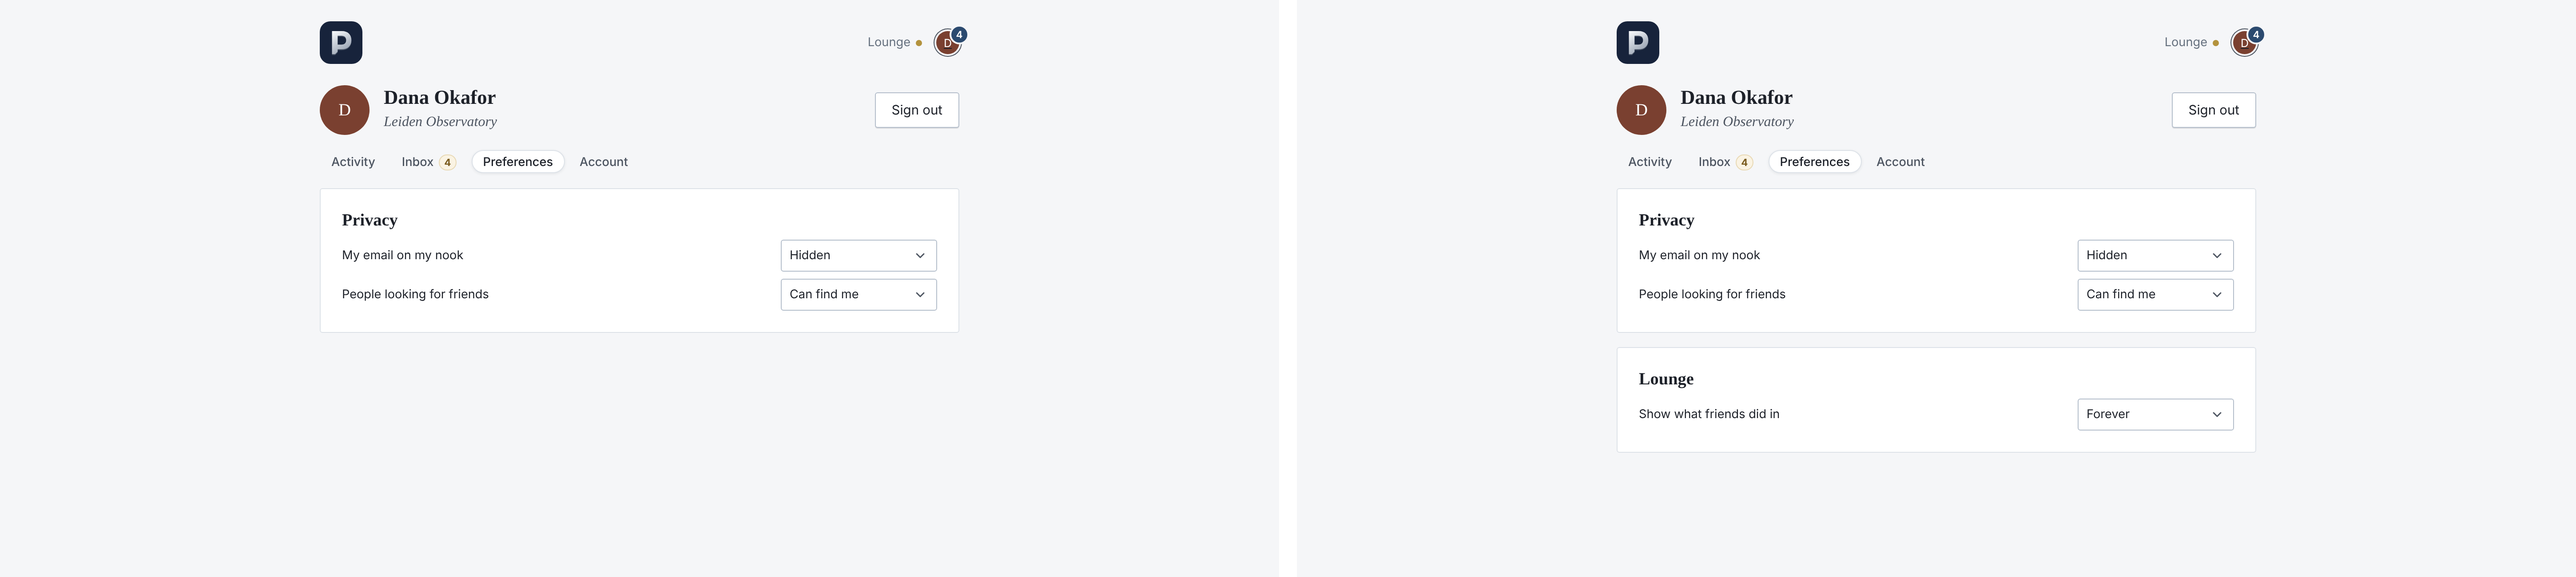
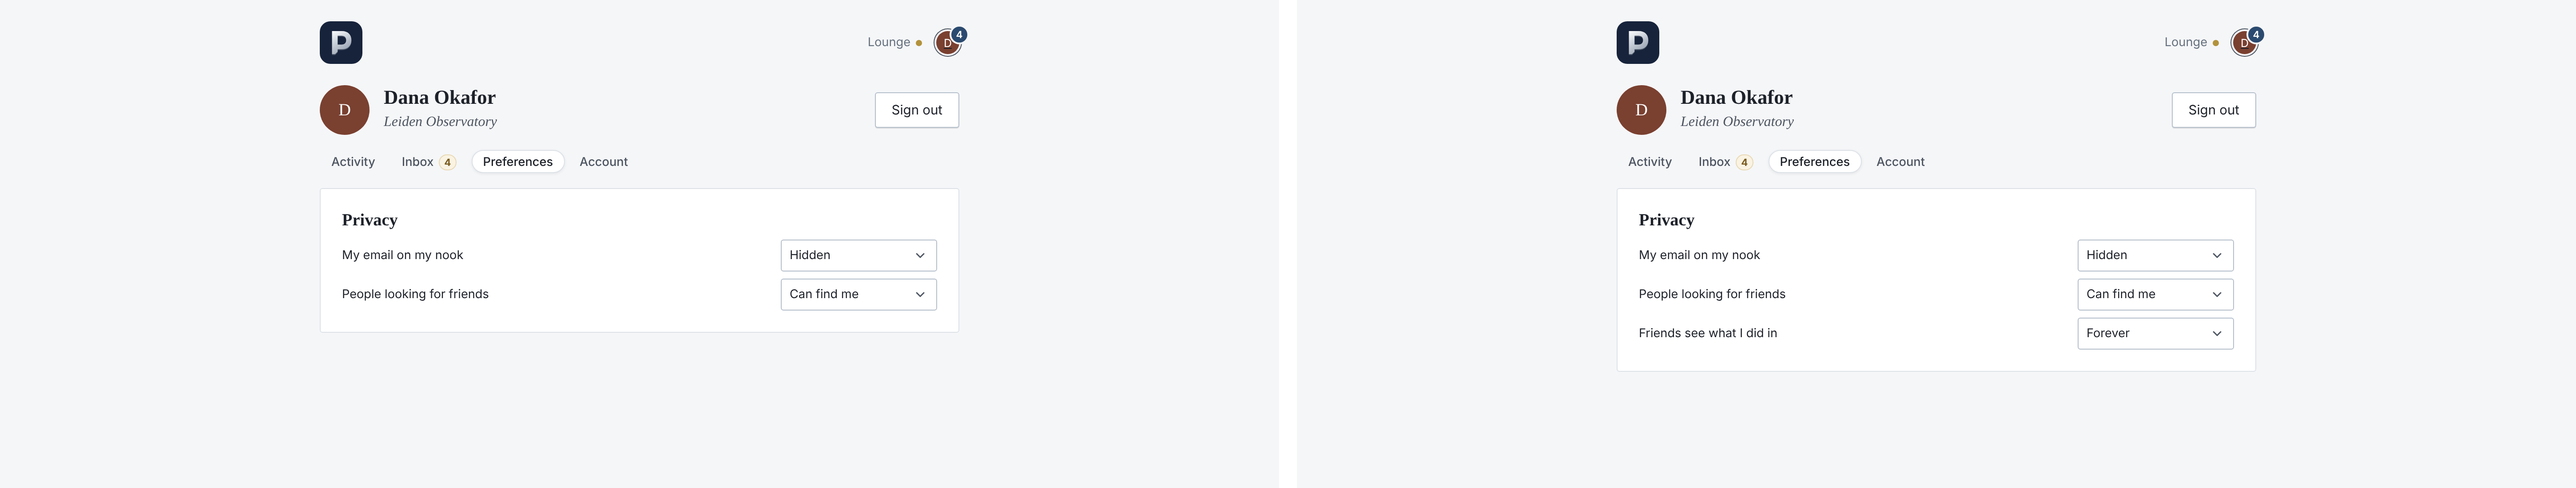
Preferences: the range is how far back friends see what I did
It is each person's choice about their own doings, not about their own
Lounge, and stands under Privacy.

Claude-Session: https://claude.ai/code/session_01PQZzMU9GKrAFQp5Cu1jE2g

diff --git a/cloudflare/src/routes/room.ts b/cloudflare/src/routes/room.ts
@@ -9,8 +9,8 @@
 // same shelf and the same field that shows it anywhere else.
 //
 // The room is made from the reader's friends and nobody else. What a
-// friend reads, and for how long, is never in it. It holds everything, however old, unless the member
-// chose a shorter time; the page shows it a part at a time.
+// friend reads, and for how long, is never in it. It holds everything, however old, except what a
+// friend chose to stop showing after a time (their Preferences); the page shows it a part at a time.
 
 import { currentUser, type User } from "../auth";
 import { all, statement, type Row } from "../db";
@@ -52,9 +52,8 @@ async function latest(env: Env, me: User) {
   const mine = userLiteral(me.uuid);
   const friends = friendsOf(mine);
   const people = friends;
-  // The member says how far back the room goes (Preferences). Left alone,
-  // nothing is too old for it: every time is after the empty one.
-  const since = me.lounge_days ? new Date(Date.now() - me.lounge_days * DAY).toISOString() : "";
+  // Nothing is too old for the room: every time is after the empty one.
+  const since = "";
   const seen = me.room_seen_at as string | null ?? "9999";
   const digOn = "d.uuid AS dig_uuid, d.user_uuid AS owner_uuid, d.paper_sha256, d.created_at AS dug_at, d.text, an.page AS on_page, an.kind AS on_kind";
 
@@ -95,7 +94,13 @@ async function latest(env: Env, me: User) {
   ])).map((r) => r.results);
 
   const lines = new Map<string, Line[]>();
-  const say = (digest: unknown, line: Line) => lines.set(String(digest), [...(lines.get(String(digest)) ?? []), line]);
+  // Each person says how far back their friends see what they did
+  // (Preferences); left alone, all of it. Past that, a thing they did is
+  // not in anyone's room.
+  const spans = new Map((await all<Row>(env.DB, `SELECT uuid, lounge_days FROM users WHERE lounge_days IS NOT NULL AND uuid IN ${people}`))
+    .map((u) => [String(u.uuid), new Date(Date.now() - Number(u.lounge_days) * DAY).toISOString()]));
+  const shows = (user: unknown, at: string) => at > (spans.get(String((user as { uuid: unknown }).uuid)) ?? "");
+  const say = (digest: unknown, line: Line) => { if (shows(line.user, line.at)) lines.set(String(digest), [...(lines.get(String(digest)) ?? []), line]); };
   const who = (row: Row) => userPublic(row);
   // What was said within a day of the adding is part of it, and the line
   // takes the later time. What was said after that is its own line, so
@@ -164,6 +169,7 @@ async function latest(env: Env, me: User) {
     rows.push({ kind: "paper", key: digest, at: said[0].at, is_new: said[0].at > seen, paper: paperOf.get(digest), in_my_nook: inNook.has(digest), lines: said });
   }
   for (const b of boards) {
+    if (!shows(who(b), b.made_at as string)) continue;
     rows.push({
       kind: "board", key: `board:${b.board_uuid}`, at: b.made_at as string, is_new: (b.made_at as string) > seen,
       board: { uuid: b.board_uuid, name: b.name, description: b.description, item_count: b.item_count, updated_at: b.edited_at }, user: who(b),
@@ -172,6 +178,7 @@ async function latest(env: Env, me: User) {
   // A project is one row however many of the people in view joined it.
   const projects = new Map<string, Out>();
   for (const j of joined) {
+    if (!shows(who(j), j.joined_at as string)) continue;
     const row = projects.get(String(j.project_uuid)) ?? {
       kind: "project", key: `project:${j.project_uuid}`, at: j.joined_at as string, is_new: false,
       project: { uuid: j.project_uuid, name: j.name, description: j.description, member_count: j.member_count, is_member: Boolean(j.is_member), asked: Boolean(j.asked) },

diff --git a/cloudflare/test/friends.test.ts b/cloudflare/test/friends.test.ts
@@ -292,21 +292,24 @@ describe("the Lounge", () => {
     expect(got.rows.filter((r: any) => r.kind === "paper").map((r: any) => r.paper.title).sort()).toEqual(["Paper 1", "Paper 2", "Paper 3", "Paper 4", "Paper 5", "Paper 6", "Paper 7"]);
   });
 
-  it("goes back as far as the member chose, and forever to begin with", async () => {
+  it("shows a friend's doings as far back as that friend chose, and forever to begin with", async () => {
     const ada = await register("ada@example.test", "Ada"), grace = await register("grace@example.test", "Grace");
     await befriend(ada, grace);
     await paperWithCopy(grace, digest("a"), "Two months old", { shelfUuid: await defaultShelf(grace) });
     await exec("UPDATE copies SET created_at = ? WHERE paper_sha256 = ?", new Date(Date.now() - 60 * 24 * 3_600_000).toISOString(), digest("a"));
     await paperWithCopy(grace, digest("b"), "Today", { shelfUuid: await defaultShelf(grace) });
     const titles = async () => (await room(ada)).rows.map((r: any) => r.paper.title);
-    expect((await ok("GET", "/api/auth/me", { headers: ada.headers })).lounge_days).toBe(null);
+    expect((await ok("GET", "/api/auth/me", { headers: grace.headers })).lounge_days).toBe(null);
     expect(await titles()).toEqual(["Today", "Two months old"]);
-    expect((await ok("PUT", "/api/auth/profile", { headers: ada.headers, json: { lounge_days: 30 } })).lounge_days).toBe(30);
+    // It is Grace's choice about her own doings; Ada's own choice changes nothing she sees.
+    await ok("PUT", "/api/auth/profile", { headers: ada.headers, json: { lounge_days: 14 } });
+    expect(await titles()).toEqual(["Today", "Two months old"]);
+    expect((await ok("PUT", "/api/auth/profile", { headers: grace.headers, json: { lounge_days: 30 } })).lounge_days).toBe(30);
     expect(await titles()).toEqual(["Today"]);
-    expect((await ok("PUT", "/api/auth/profile", { headers: ada.headers, json: { lounge_days: 90 } })).lounge_days).toBe(90);
+    expect((await ok("PUT", "/api/auth/profile", { headers: grace.headers, json: { lounge_days: 90 } })).lounge_days).toBe(90);
     expect(await titles()).toEqual(["Today", "Two months old"]);
-    expect((await call("PUT", "/api/auth/profile", { headers: ada.headers, json: { lounge_days: 7 } })).status).toBe(422);
-    expect((await ok("PUT", "/api/auth/profile", { headers: ada.headers, json: { lounge_days: null } })).lounge_days).toBe(null);
+    expect((await call("PUT", "/api/auth/profile", { headers: grace.headers, json: { lounge_days: 7 } })).status).toBe(422);
+    expect((await ok("PUT", "/api/auth/profile", { headers: grace.headers, json: { lounge_days: null } })).lounge_days).toBe(null);
   });
 
   it("never shows what a friend is reading", async () => {

diff --git a/frontend/src/components/PreferencesPanel.jsx b/frontend/src/components/PreferencesPanel.jsx
@@ -2,7 +2,7 @@ import React, { useState } from 'react';
 import { updateProfile } from '../../../shared/api/account.js';
 
 // Every choice a member makes about how Papol behaves for them, in one
-// place: who sees and finds them, and how far back their Lounge goes. Each is
+// place: who sees and finds them, and how far back friends see what they did. Each is
 // kept the moment it is chosen; there is nothing to save.
 export default function PreferencesPanel({ user, onUserUpdated }) {
   const [busy, setBusy] = useState(false);
@@ -25,7 +25,7 @@ export default function PreferencesPanel({ user, onUserUpdated }) {
     </div>
   );
 
-  // How far back the Lounge goes, in days; none is everything.
+  // How far back friends see what I did, in days; none is everything.
   const SPANS = [['14', 'The last 2 weeks'], ['30', 'The last month'], ['90', 'The last 3 months'], ['365', 'The last year'], ['', 'Forever']];
 
   return (
@@ -35,11 +35,8 @@ export default function PreferencesPanel({ user, onUserUpdated }) {
         <h2 className="panel-title" id="preferences-privacy">Privacy</h2>
         {choice('preference-email', 'My email on my nook', Boolean(user.email_public), 'Shown', 'Hidden', (on) => ({ email_public: on }))}
         {choice('preference-findable', 'People looking for friends', user.findable ?? true, 'Can find me', 'Cannot find me', (on) => ({ findable: on }))}
-      </section>
-      <section className="panel preferences-block" aria-labelledby="preferences-lounge">
-        <h2 className="panel-title" id="preferences-lounge">Lounge</h2>
         <div className="local-setting-row preferences-row">
-          <label htmlFor="preference-lounge-days"><strong>Show what friends did in</strong></label>
+          <label htmlFor="preference-lounge-days"><strong>Friends see what I did in</strong></label>
           <select id="preference-lounge-days" value={String(user.lounge_days ?? '')} disabled={busy} onChange={(e) => keep({ lounge_days: e.target.value ? Number(e.target.value) : null })}>
             {SPANS.map(([days, name]) => <option key={days} value={days}>{name}</option>)}
           </select>

diff --git a/cloudflare/src/routes/account.ts b/cloudflare/src/routes/account.ts
@@ -12,7 +12,7 @@ import { UPLOADS } from "../files";
 import * as validate from "../validate";
 
 const AVATAR_TYPES: Record<string, string> = { ".png": "image/png", ".jpg": "image/jpeg", ".jpeg": "image/jpeg", ".webp": "image/webp" };
-// How far back a member's Lounge may go, in days (Preferences).
+// How far back a member's friends may see what they did, in days (Preferences).
 const LOUNGE_DAYS = [14, 30, 90, 365];
 const AVATAR_LIMIT = limits.files.avatar_mb * 1024 * 1024;
 
@@ -37,7 +37,7 @@ export function accountRoutes(router: Router) {
     const email = "email" in data ? check.string("email", data.email, { max: limits.text.email, pattern: validate.EMAIL }) : undefined;
     const emailPublic = check.boolean("email_public", data.email_public, { optional: true });
     const findable = check.boolean("findable", data.findable, { optional: true });
-    // How far back the Lounge shows, in days; null is everything.
+    // How far back friends see what I did, in days; null is everything.
     const days = data.lounge_days;
     if (days !== undefined && days !== null && !LOUNGE_DAYS.includes(days as number)) check.fail(`lounge_days must be null or one of ${LOUNGE_DAYS.join(", ")}`);
     // What the viewer's nav bar marks: a list of its kinds, in any order.

diff --git a/USER_STORIES.md b/USER_STORIES.md
@@ -229,7 +229,7 @@ A friend is someone I chose, who chose me back. Friendship is the third audience
 - **US-10.6** What is new since I last opened the room wears the gold dot, as news does in a project, and the bar's link wears one when there is any. No number: the room is not an inbox.
 - **US-10.7** A board's row shows its name, how many cards it holds and whose face put it out. A project's row shows its name, how many members it has and the faces of who started or joined it. A row carries no buttons: a project I am in opens from its row, and one I am not in leads to the Projects page, where **Ask to join** sends its keepers a request in their Inbox, once.
 - **US-10.8** **The Lounge is laid out as my nook is.** A rail on the left, the page's name and a count on the bar, then the rows in one card under column names (Title, Friends, Latest). Friend requests are answered in the Inbox and on the asker's nook, not here.
-- **US-10.9** **The room ends, and narrows as the nook does.** It holds everything my friends did, however long ago, newest first and oldest at the foot, unless I chose a shorter time on my **Preferences** tab (*Show what friends did in*: the last 2 weeks, month, 3 months, year, or Forever, which it is to begin with). It shows fifty rows and **Show more** brings the next fifty. Pressing a friend in the rail shows only their news, with a link to their nook; **Show** in the rail keeps papers, boards or projects, each with its count. No dropdowns, no endless scroll, no ranking by anything but time, nothing shown because it is popular.
+- **US-10.9** **The room ends, and narrows as the nook does.** It holds everything my friends did, however long ago, newest first and oldest at the foot. Each of us decides how far back our own doings show to friends: on my **Preferences** tab, under Privacy, *Friends see what I did in* the last 2 weeks, month, 3 months, year, or Forever, which it is to begin with. What I did before that is in no friend's Lounge. It shows fifty rows and **Show more** brings the next fifty. Pressing a friend in the rail shows only their news, with a link to their nook; **Show** in the rail keeps papers, boards or projects, each with its count. No dropdowns, no endless scroll, no ranking by anything but time, nothing shown because it is popular.
 
 **Friends only**
 
